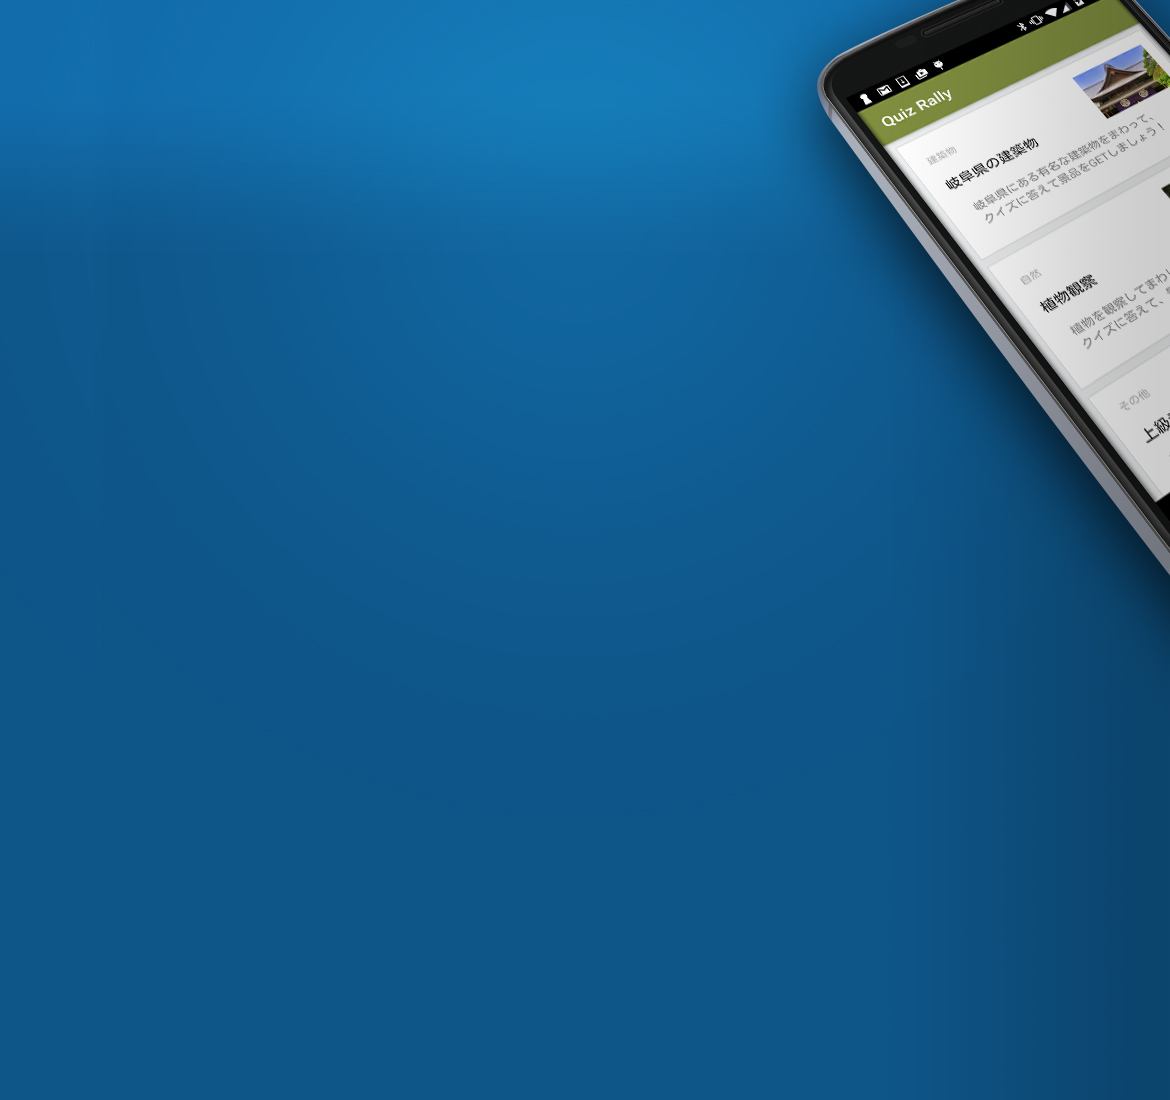
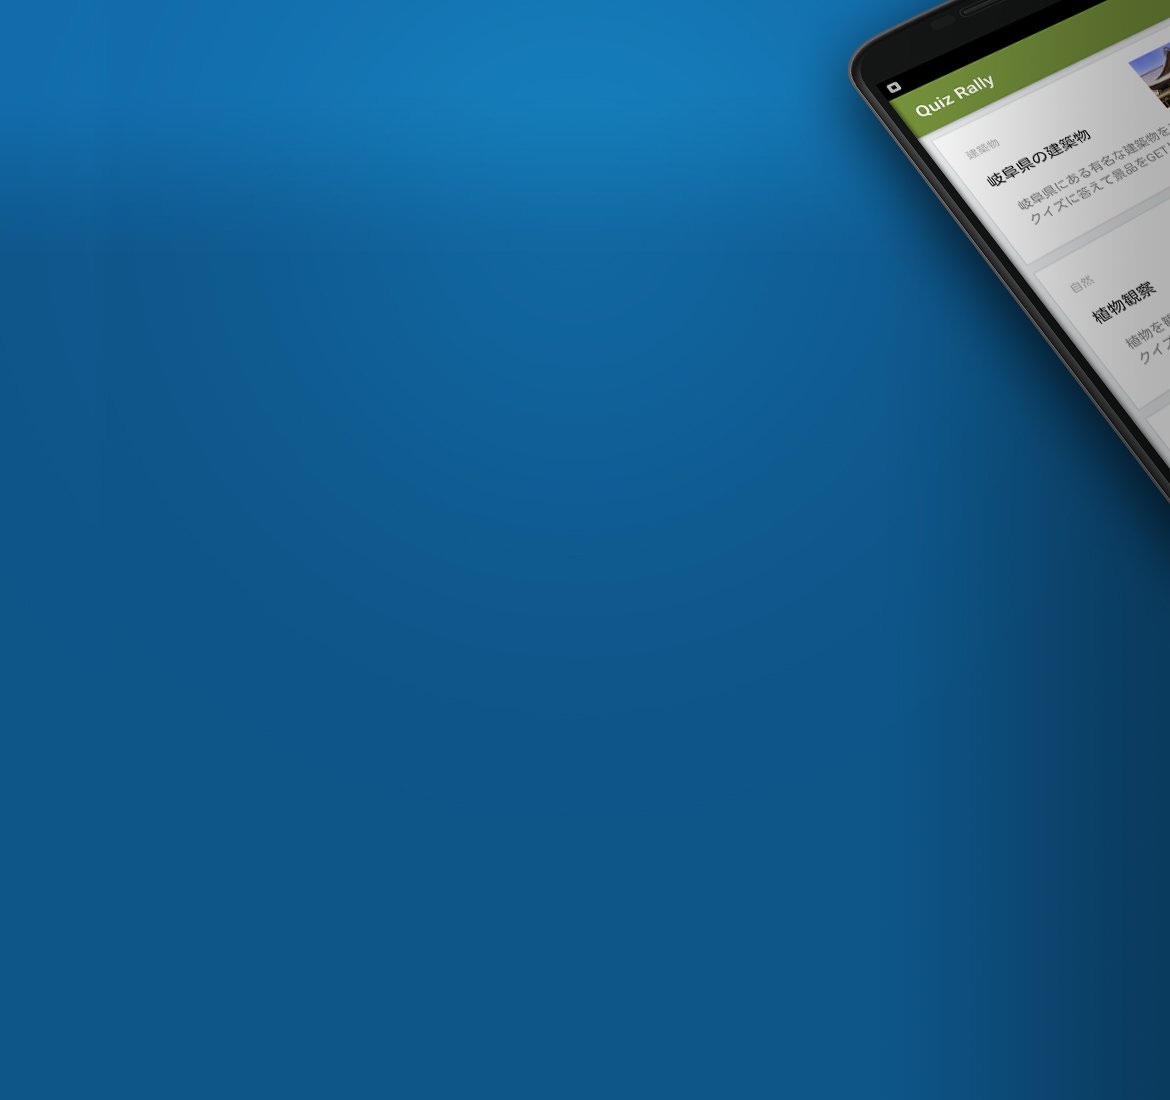
modifed showcase page

Changed region(s): [[0.6769, 0.0, 1.0, 0.5255], [0.7692, 0.0, 0.8308, 0.0309]]

diff --git a/src/sass/pages/_showcase.scss b/src/sass/pages/_showcase.scss
@@ -3640,7 +3640,7 @@ body.showcase.pscsrv {
             background: linear-gradient(to bottom, #136dac 0%,#0e578a 100%);
         }
       ul {
-        margin-right: 360px;
+        margin-right: 350px;
         @media screen and (max-width: 1070px) {
           margin-right: 0;
         }
